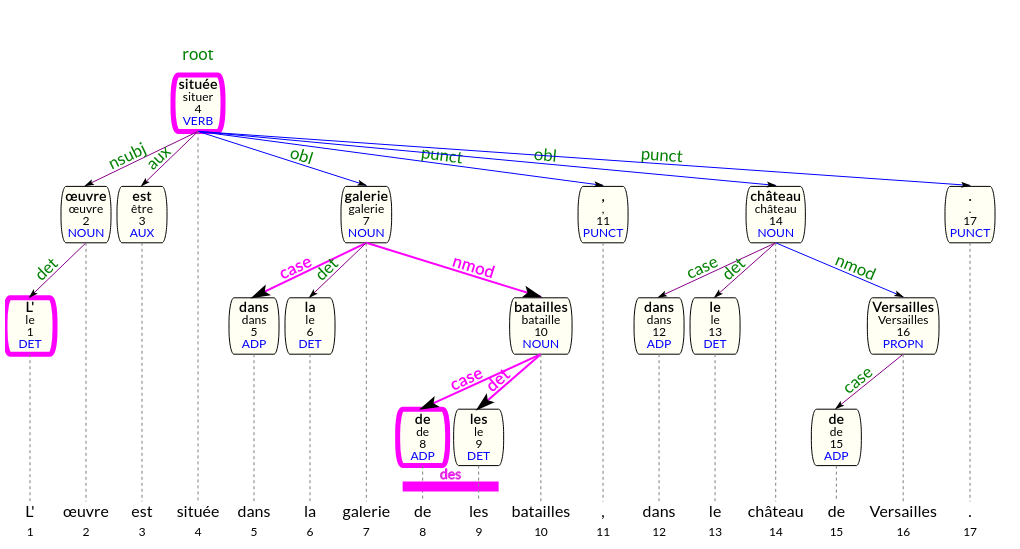
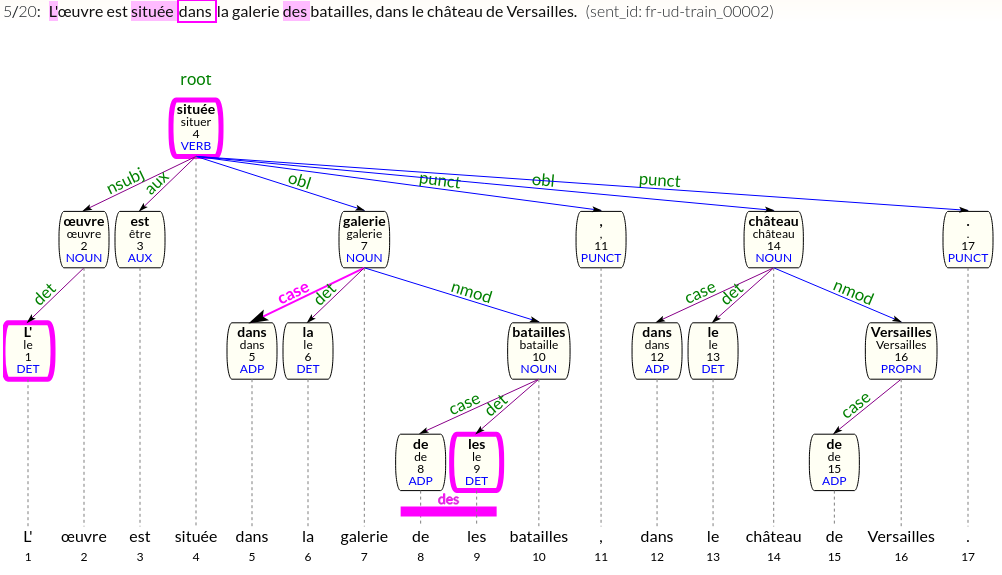
highlight marked tokens and deprels also in sentence

diff --git a/gui/edit.js b/gui/edit.js
@@ -1822,35 +1822,39 @@ function formatPhrase(item) {
         $("#total").append(item.maxsentence);
         if (item.text) {
             var stext = item.text;
-            if (item.textcheck !== undefined && item.errors === undefined) {
-                // TODO highlighting shift's if sum of tokens different to text
-                // so we do not show
-                console.log("III", item.errors);
-                //if (!item.errors.incoherenttext) {
-                for (const start_end of item.textcheck) {
-                    stext = stext.slice(0, start_end[1]) + "</span>" + stext.slice(start_end[1]);
-                    var classes = "";
-                    if ((start_end[2] & 1) !== 0) {
-                        classes = " textcheck";
+            if (item.textcheck !== undefined) {
+                if (item.errors === undefined) {
+                    // TODO highlighting shift's if sum of tokens different to text
+                    // so we do not show
+                    console.log("III", item.errors);
+                    //if (!item.errors.incoherenttext) {
+                    for (const start_end of item.textcheck) {
+                        stext = stext.slice(0, start_end[1]) + "</span>" + stext.slice(start_end[1]);
+                        var classes = "";
+                        if ((start_end[2] & 1) !== 0) {
+                            classes = " textcheck";
+                        }
+                        if ((start_end[2] & 2) !== 0) {
+                            classes += " textcheck_deprel";
+                        }
+                        stext = stext.slice(0, start_end[0]) + '<span class="' + classes + '">' + stext.slice(start_end[0]);
+                        /*if (start_end[2] === 0) {
+                         stext = stext.slice(0, start_end[0]) + '<span class="textcheck">' + stext.slice(start_end[0]);
+                         } else {
+                         stext = stext.slice(0, start_end[0]) + '<span class="textcheck_deprel">' + stext.slice(start_end[0]);
+                         }*/
+                        //console.log("AAA", start_end[2], classes, start_end[2] & 1, start_end[2] & 2 ,stext);
                     }
-                    if ((start_end[2] & 2) !== 0) {
-                        classes += " textcheck_deprel";
-                    }
-                    stext = stext.slice(0, start_end[0]) + '<span class="' + classes  + '">' + stext.slice(start_end[0]);
-                    /*if (start_end[2] === 0) {
-                        stext = stext.slice(0, start_end[0]) + '<span class="textcheck">' + stext.slice(start_end[0]);
-                    } else {
-                        stext = stext.slice(0, start_end[0]) + '<span class="textcheck_deprel">' + stext.slice(start_end[0]);
-                    }*/
-                    //console.log("AAA", start_end[2], classes, start_end[2] & 1, start_end[2] & 2 ,stext);
+                    //}
+                } else {
+                    // "# text = ...." does not correspond to concatenated tokens
+                    stext = '<span class="textcheck">' + stext + "</span>";
                 }
-            //}
             }
             $("#titre").append(stext);
         } else {
             $("#titre").append(item.sentence);
         }
-
 
         if (item.errors !== undefined) {
             if (item.errors.heads)

diff --git a/src/main/java/com/orange/labs/editor/ConlluEditor.java b/src/main/java/com/orange/labs/editor/ConlluEditor.java
@@ -615,44 +615,54 @@ public class ConlluEditor {
         }
         JsonObject solution = prepare(sentid);
         solution.addProperty("text", csent.getText()); // contents of "# text = ..."
-        Map<Integer, Integer> pos2id = new LinkedHashMap<>();
-        solution.addProperty("sentence", csent.getSentence(pos2id)); // tokens concatenated
+        Map<Integer, List<Integer> > id2pos = new LinkedHashMap<>();
+        solution.addProperty("sentence", csent.getSentence(id2pos)); // tokens concatenated
 
+        //System.err.println("AAA " + id2pos);
         // map id:token to mark tokens with checkdeprel/checktoken
-        List<Integer>token_start = new ArrayList<>();
-        for (int pos : pos2id.keySet()) {
-            token_start.add(pos);
+        List<Integer>token_pos = new ArrayList<>();
+        for (int pos : id2pos.keySet()) {
+            token_pos.add(id2pos.get(pos).get(0));
         }
         JsonArray check = new JsonArray();
-        for (int x = token_start.size()-2; x>= 0; x--) {
-            int start = token_start.get(x);
-            int end = token_start.get(x+1);
+        Set<Integer>incheck = new HashSet<>(); // needed to avoid two annotations to a same token
+        for (int x = token_pos.size(); x> 0; x--) {
+            int start = id2pos.get(x).get(0);
+            if (incheck.contains(start)) {
+                continue;
+            }
+            //int end = id2pos.getOrDefault(x+1, -1);
+            int end = id2pos.get(x).get(1);
+            if (end == -1) {
+                // TODO improve !!!!
+                //end = id2pos.get(-1);
+            }
+//            System.err.println("eee " + start + " " + end);
 
-            int i = pos2id.get(start);
-
-            ConllWord mwt = csent.getContracted(i);
-            //if (mwt != null) {
-            //    System.err.println("eeee" + mwt.getCheckToken());
-            //}
-            if (csent.getWord(i).getCheckToken() == true
-                    || csent.getWord(i).getcheckDeprel()== true
+            ConllWord mwt = csent.getContracted(x);
+//            if (mwt != null) {
+//                System.err.println("eeee" + mwt.getCheckToken());
+//            }
+            if (csent.getWord(x).getCheckToken() == true
+                    || csent.getWord(x).getcheckDeprel()== true
                     || (mwt != null && mwt.getCheckToken() == true)
                     ) {
                 JsonArray from_to = new JsonArray();
                 from_to.add(start);
                 from_to.add(end);
                 int what = 0;
-                if (csent.getWord(i).getCheckToken()== true
+                if (csent.getWord(x).getCheckToken()== true
                 || (mwt != null && mwt.getCheckToken() == true)) {
                     //from_to.add(0); // token
                     what = 1;
                 } //else
-                if (csent.getWord(i).getcheckDeprel()== true) {
+                if (csent.getWord(x).getcheckDeprel()== true) {
                     //from_to.add(1); // deprel
                     what = what | 0x02;
                 }
                 from_to.add(what);
                 check.add(from_to);
+                incheck.add(start);
             }
         }
         //System.err.println("CCCCC " + check);
@@ -1275,7 +1285,12 @@ public class ConlluEditor {
                         i = (backwards ? i - 1 : i + 1)) {
                     ConllSentence cs = cfile.getSentences().get(i);
                     Map<Integer, Integer> pos2id = new TreeMap<>();
-                    String text = cs.getSentence(pos2id);
+                    Map<Integer, List<Integer> > id2pos = new TreeMap<>();
+                    String text = cs.getSentence(id2pos);
+                    for (Integer id : id2pos.keySet()) {
+                        // here we need a map pos 2 id
+                        pos2id.put(id2pos.get(id).get(0), id);
+                    }
                     //System.err.println("zzzzz " + pos2id);
                     int wordoffset = text.indexOf(motAtrouver);
 

diff --git a/src/main/java/com/orange/labs/conllparser/ConllSentence.java b/src/main/java/com/orange/labs/conllparser/ConllSentence.java
@@ -1993,34 +1993,47 @@ public class ConllSentence {
     /**
      * get the sentence with original spaces.
      *
-     * @param pos2id if not null a map where the position of each id is written
+     * @param id2pos if not null a map where the start and end character position of each id is written
      * @return the original sentence
      */
-    public String getSentence(Map<Integer, Integer> pos2id) {
+    public String getSentence(Map<Integer, List<Integer> > id2pos) {
         StringBuilder sb = new StringBuilder();
         //for (ConllWord word : words) {
         //    sb.append(word.getForm()).append(" ");
         //}
 
         int contracted_until = 0;
+        int start = 0;
         for (ConllWord word : words) {
-            if (pos2id != null) {
-                pos2id.put(sb.length(), word.getId());
-            }
+            //if (id2pos != null) {
+            //    id2pos.put(word.getId(), sb.length());
+            //}
             ConllWord mwt = null;
             if (contracted != null) {
                 mwt = contracted.get(word.getId());
             }
+
+//            if (id2pos != null) {
+//                System.err.println("bbbb " + word.getId() + " " + id2pos.get(word.getId()) + " " + mwt + " " + contracted_until);
+//            }
             if (mwt != null) {
+                // we are at an MWT, we add this (and have to ignore the words which are part of the MWT)
+                start = sb.length();
                 sb.append(mwt.getForm()).append(mwt.getSpacesAfter());
                 contracted_until = mwt.getSubid();
+
             } else if (contracted_until == 0 || word.getId() > contracted_until) {
+                start = sb.length();
                 sb.append(word.getForm()).append(word.getSpacesAfter());
             }
+            if (id2pos != null) {
+                ArrayList<Integer> start_end = new ArrayList<>(Arrays.asList(start, sb.length()));
+                id2pos.put(word.getId(), start_end);
+            }
         }
-        if (pos2id != null) {
-            pos2id.put(sb.length(), -1); // end of last token
-        }
+        //if (id2pos != null) {
+        //    id2pos.put(-1, sb.length()); // end of last token
+        //}
         return sb.toString().trim();
     }
 
@@ -2054,7 +2067,7 @@ public class ConllSentence {
         }
         return tl;
     }
-    
+
     /**
      * returns head if the words from first to last are a subtree (with a common
      * head). Else it returns null

diff --git a/README.md b/README.md
@@ -370,13 +370,15 @@ Sometimes validation scripts detect potential problem on tokens and/or deprels. 
 
 ```
 
-Sentences having this meta-data display thelisted tokens and deprel so the annotator can check them (and remove the highlighting)
+Sentences having this meta-data display the listed tokens and deprel so the annotator can check them (and remove the highlighting)
 
 ![Highlighted tokens and deprel)](doc/highlight.png)
 
 The editor can highlight, standard tokens, MWTs and empty tokens in tree, flat and table mode. The word editing and MWT editing window allows setting and unsetting of highlighting (not yet in table mode). Use the <img src="gui/img/light-bulb.svg" alt="undo" width="15"/>-button to find sentences with highlighted tokens or deprels.
 Marked tokens are also shown in the sentence (background for marked tokens, coloured border for deprels).
+Forms in the sentence is highlighted as well, if the `# text = ...` line is identical to the concatenated token forms. In this case the whole sentence is highlight to signal a highlighted token.
 
+![Highlighted tokens and deprel when sentence does not correspond to concatenated tokens)](doc/highlight-with-error.png)
 
 ## Show CoNLL-U, LaTeX and SD-parse format and file statistics
 
